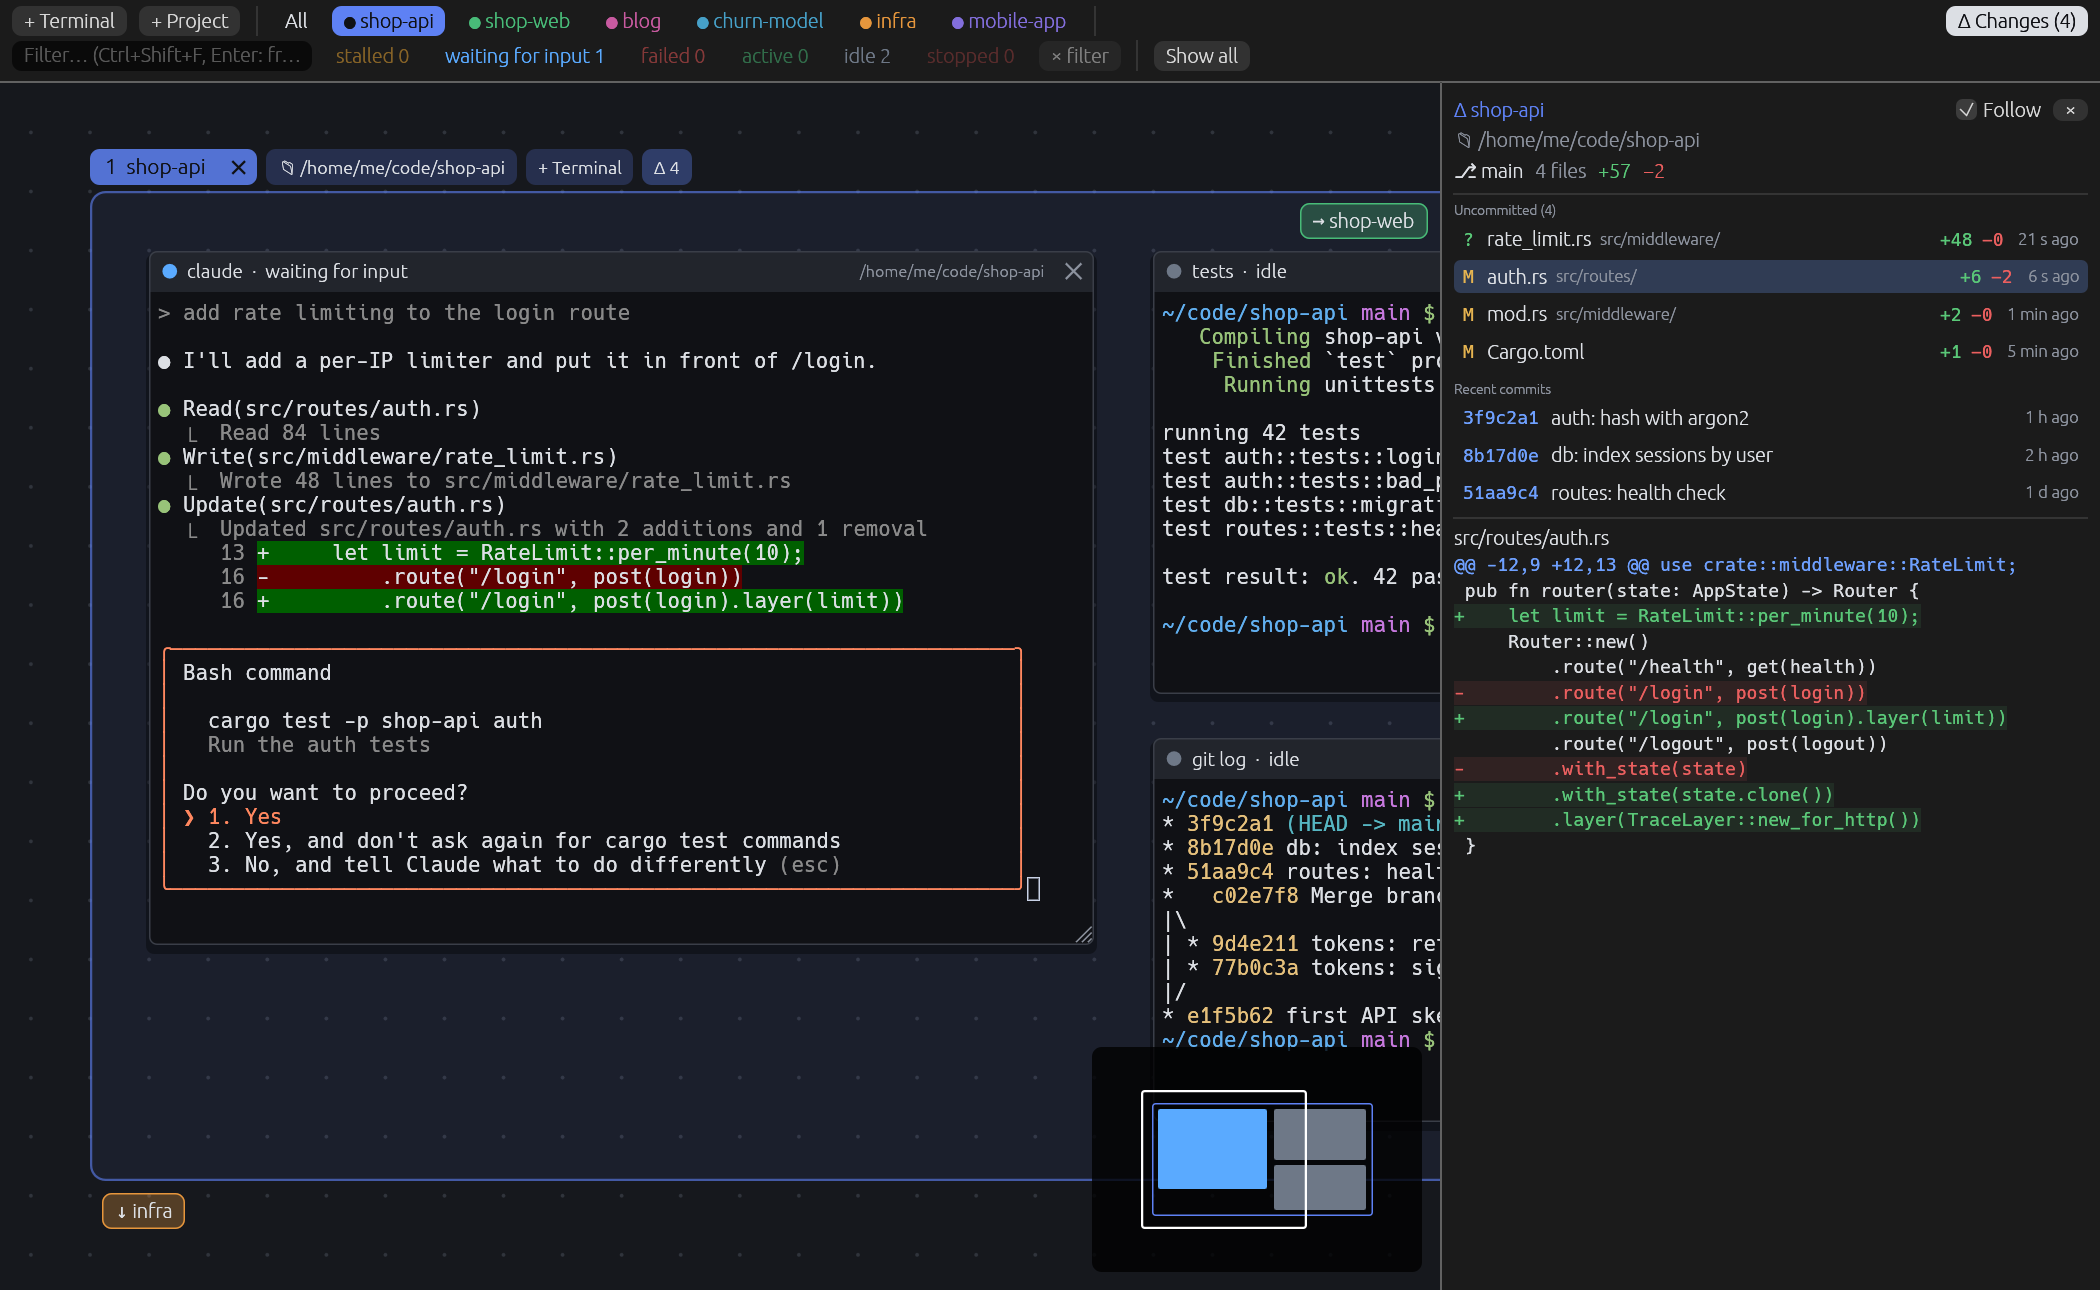
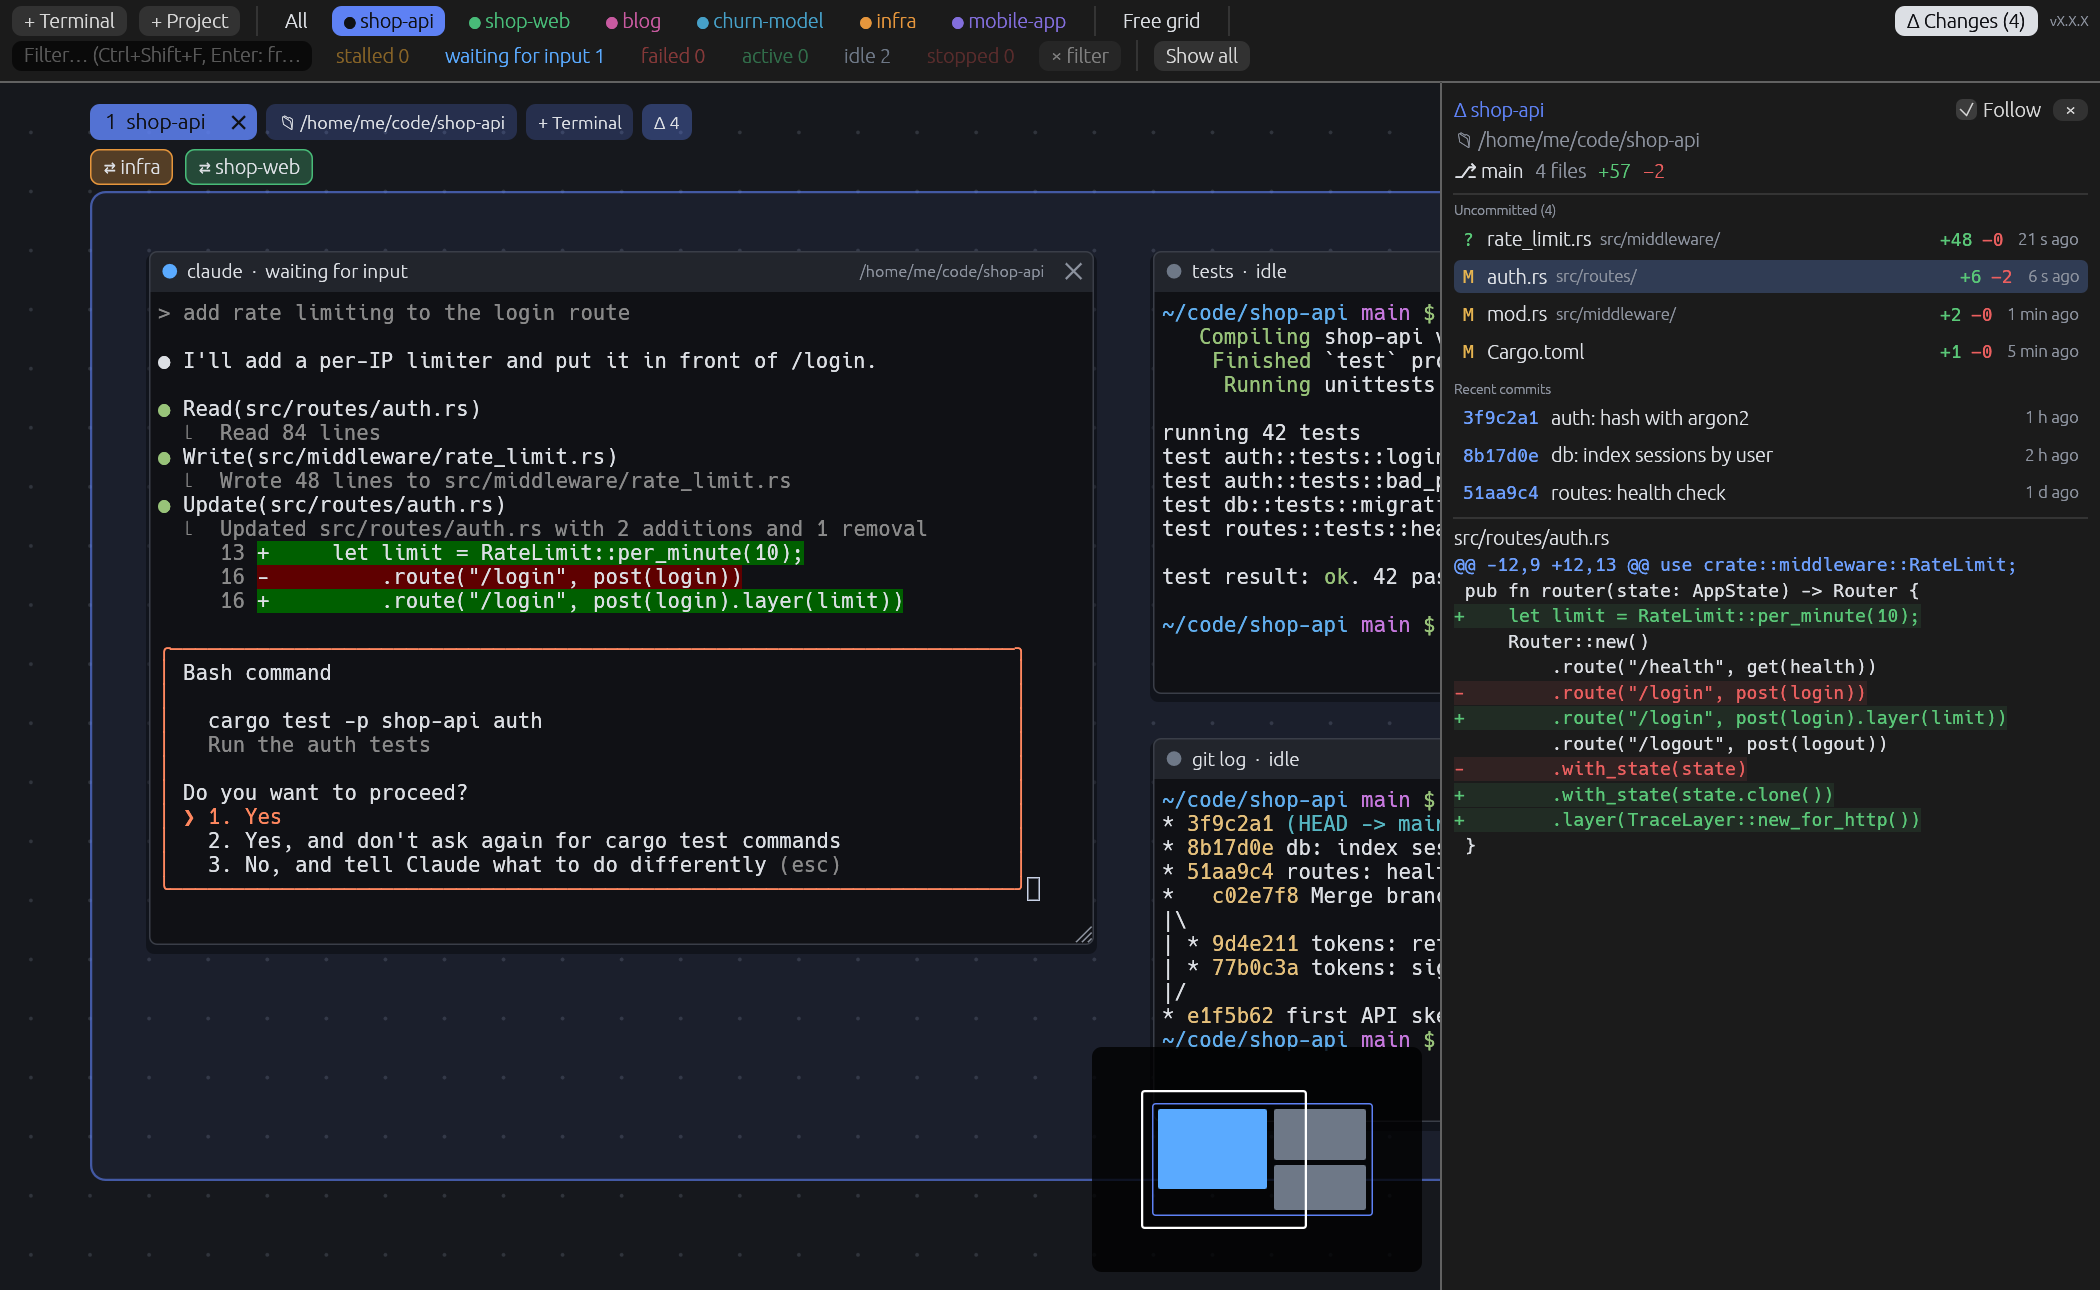
feat: Show the running version in the toolbar and window title
- shell: Dim version label at the right end of the toolbar, version in the window title
- tests: UI test for the label; screenshot scenes show vX.X.X so README images stay stable across releases
- docs: Regenerate screenshots

diff --git a/crates/app/src/shell/mod.rs b/crates/app/src/shell/mod.rs
@@ -28,6 +28,9 @@ use event::Event;
 use i18n::t;
 use world::{Card, World};
 
+/// The running build's version (the workspace version, set by release-plz).
+pub const VERSION: &str = env!("CARGO_PKG_VERSION");
+
 pub struct Config {
     pub launcher: Launcher,
     pub agent: AgentMode,
@@ -88,6 +91,9 @@ pub struct App {
     agent: AgentLink,
     persistence: Persistence,
     shortcuts: Vec<Shortcut>,
+    /// Shown in the toolbar: `VERSION`, pinned by the screenshot scenes so the README
+    /// images don't change on every release.
+    pub version: &'static str,
 }
 
 impl App {
@@ -113,6 +119,7 @@ impl App {
             agent: AgentLink::new(ctx.clone(), config.agent),
             persistence,
             shortcuts: Vec::new(),
+            version: VERSION,
         }
     }
 
@@ -216,6 +223,7 @@ impl App {
                 let vp = self.canvas.viewport();
                 self.spaces.ui(ui, &self.world, vp, &mut events);
                 ui.with_layout(Layout::right_to_left(Align::Center), |ui| {
+                    ui.label(RichText::new(format!("v{}", self.version)).small().color(theme::TEXT_DIM));
                     self.agent.status_ui(ui);
                     self.changes.toolbar_ui(ui, &self.world, &mut events);
                     if let Some(err) = &self.persistence.last_error {

diff --git a/crates/app/tests/screenshots.rs b/crates/app/tests/screenshots.rs
@@ -255,7 +255,9 @@ fn harness_sized(name: &str, size: Vec2, pixels_per_point: f32) -> Harness<'stat
     let dir = std::env::temp_dir().join(format!("tcanvas-shot-{name}-{}", std::process::id()));
     let _ = std::fs::remove_dir_all(&dir);
     Harness::builder().with_size(size).with_pixels_per_point(pixels_per_point).with_step_dt(1.0 / 60.0).wgpu().build_eframe(move |cc| {
-        let app = App::new(&cc.egui_ctx, Config { launcher: Launcher::Disabled, agent: AgentMode::Disabled, config_dir: dir, os_toasts: false });
+        let mut app = App::new(&cc.egui_ctx, Config { launcher: Launcher::Disabled, agent: AgentMode::Disabled, config_dir: dir, os_toasts: false });
+        // A fixed version: the images must not change on every release.
+        app.version = "X.X.X";
         add_windows_symbols(&cc.egui_ctx);
         app
     })

diff --git a/crates/app/src/lib.rs b/crates/app/src/lib.rs
@@ -22,7 +22,7 @@ pub fn run() -> eframe::Result {
     let options = eframe::NativeOptions {
         renderer: eframe::Renderer::Wgpu,
         viewport: egui::ViewportBuilder::default()
-            .with_title("tcanvas")
+            .with_title(format!("tcanvas {}", shell::VERSION))
             // Wayland and X11 match it with `tcanvas.desktop` (taskbar icon, grouping).
             .with_app_id("tcanvas")
             .with_icon(icon)

diff --git a/crates/app/tests/ui.rs b/crates/app/tests/ui.rs
@@ -1695,3 +1695,11 @@ fn free_grid_toggle_in_english() {
     steps(&mut h, 3);
     assert!(h.state().world.free_grid);
 }
+
+#[test]
+fn the_toolbar_shows_the_running_version() {
+    let dir = temp_dir("version");
+    let mut h = harness(&dir);
+    steps(&mut h, 2);
+    h.get_by_label(&format!("v{}", env!("CARGO_PKG_VERSION")));
+}
